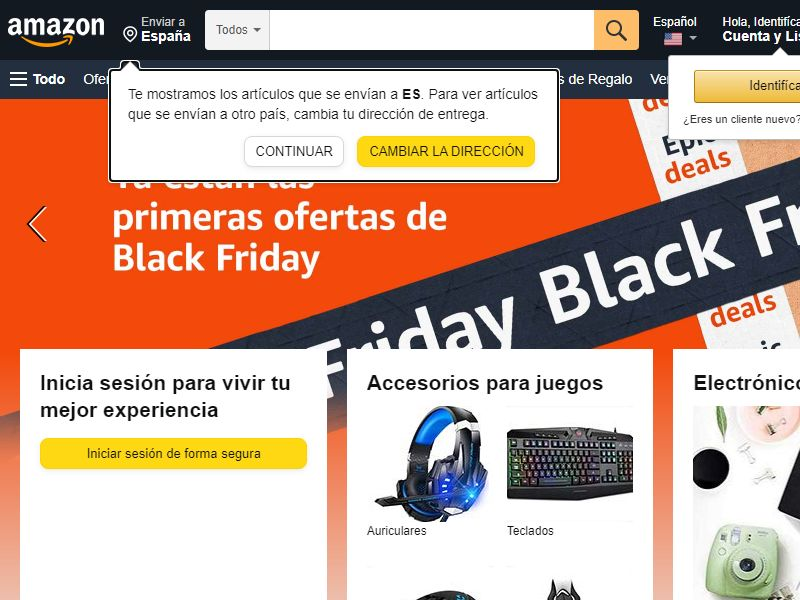
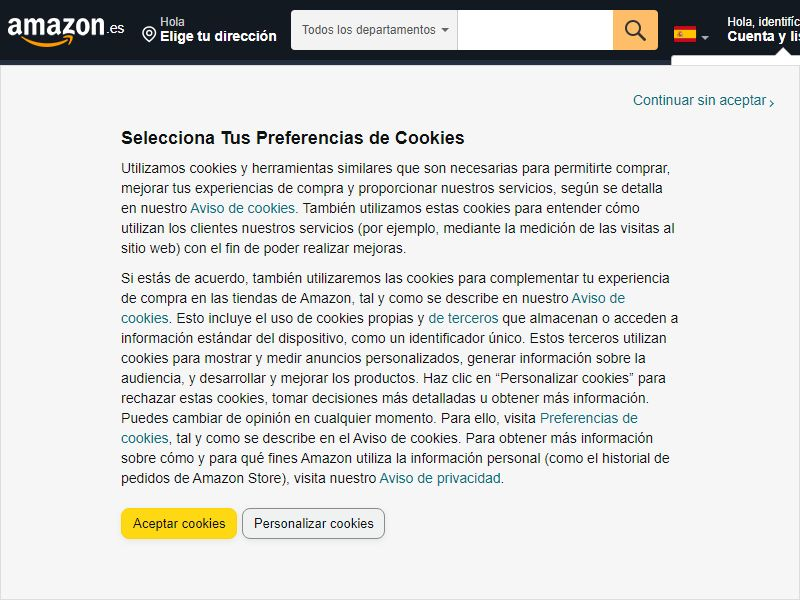
Scrapping ready

diff --git a/index.js b/index.js
@@ -1,7 +1,7 @@
 const puppeteer = require("puppeteer");
 
 // twotabsearchtextbox
-const URL = "https://www.amazon.com/-/es";
+const URL = "https://www.amazon.es/";
 
 (async () => {
   // Abrimos el navegador
@@ -10,7 +10,7 @@ const URL = "https://www.amazon.com/-/es";
   const page = await browser.newPage();
   // Accedemos a la URL
   await page.goto(URL);
-//   await page.click("#sp-cc-accept");
+  //   await page.click("#sp-cc-accept");
   await page.screenshot({ path: "./screenshots/amazon-home.jpg" });
 
   await page.type("#twotabsearchtextbox", "iphone");
@@ -20,10 +20,14 @@ const URL = "https://www.amazon.com/-/es";
     (async () => {
       page.screenshot({ path: "./screenshots/search-result.jpg" });
 
-      const products = await page.$$eval(".a-section", (nodes) => {
-        console.log(nodes);
+      const products = await page.$$eval(".s-card-container", (nodes) => {
         return nodes.map((node) => ({
-          title: node.querySelector(".s-title-instructions-style > h2 > a > span")?.innerText,
+          title: node.querySelector(
+            "span.a-size-base-plus.a-color-base.a-text-normal"
+          )?.innerText,
+          img: node.querySelector(".s-image")?.src,
+          price: node.querySelector(".a-price-whole")?.innerHTML,
+          review: node.querySelector(".a-icon-alt")?.innerHTML,
         }));
       });
 
